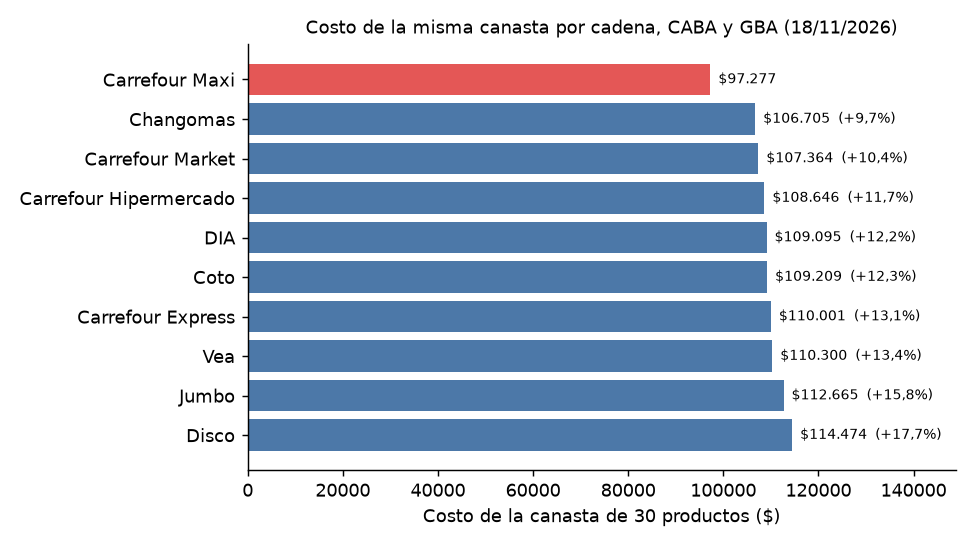
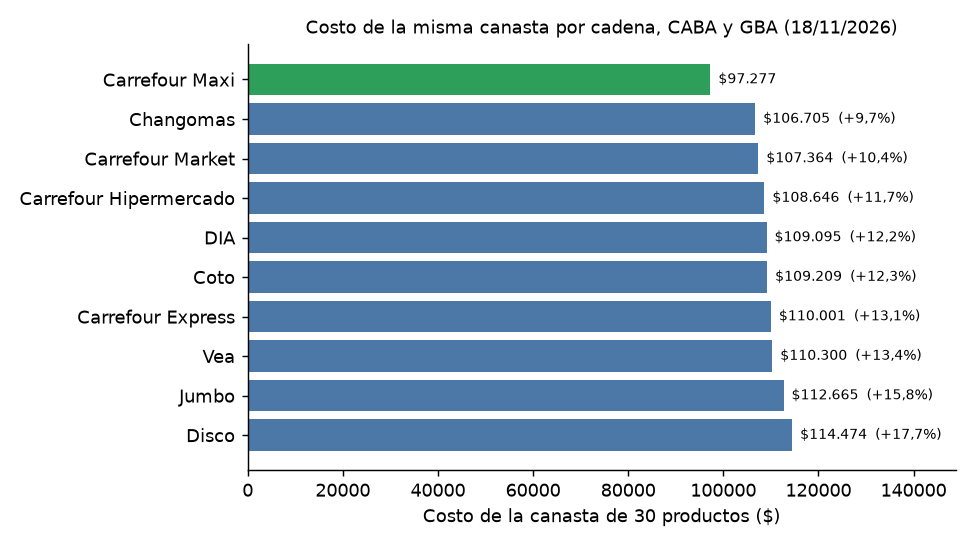
Marca en verde la cadena más barata en los gráficos de la canasta

Changed region(s): [[0.2462, 0.0934, 0.7385, 0.1868]]

diff --git a/app/app.py b/app/app.py
@@ -23,7 +23,7 @@ REPO = "magaliorellana01/monitor-precios-supermercados"
 URL_BASE = f"https://github.com/{REPO}/releases/download/datos-dashboard/dashboard.duckdb"
 RUTA_LOCAL = Path(os.environ.get("DASHBOARD_DB") or Path(__file__).resolve().parent.parent / "data" / "dashboard" / "dashboard.duckdb")
 
-COLOR, RESALTADO = "#4C78A8", "#E45756"
+COLOR, RESALTADO, VERDE = "#4C78A8", "#E45756", "#2E9E5B"  # VERDE: la cadena más barata
 ZONAS = {"TODAS": "CABA y GBA", "CABA": "CABA", "GBA": "GBA"}
 MIN_CADENAS_MARCA = 5
 MIN_FILAS_PROMO = 1000
@@ -113,7 +113,7 @@ with tab_resumen:
         t["etiqueta"] = [peso(c) + ("" if p == 1 else f"  ({pct(s, True)})") for c, p, s in
                          zip(t["costo"], t["posicion"], t["sobre_la_mas_barata_pct"])]
         fig = px.bar(t, x="costo", y="cadena", orientation="h", color="color", text="etiqueta",
-                     color_discrete_map={"Más barata": RESALTADO, "Otras": COLOR},
+                     color_discrete_map={"Más barata": VERDE, "Otras": COLOR},
                      labels={"costo": "Costo de la canasta ($)", "cadena": "", "color": ""})
         fig.update_traces(textposition="outside", cliponaxis=False)
         fig.update_layout(showlegend=False, height=420, margin=dict(l=0, r=40, t=10, b=0),

diff --git a/scripts/graficos_readme.py b/scripts/graficos_readme.py
@@ -20,7 +20,7 @@ import matplotlib.pyplot as plt  # noqa: E402
 RAIZ = Path(__file__).resolve().parent.parent
 BASE = RAIZ / "data" / "dashboard" / "dashboard.duckdb"
 SALIDA = RAIZ / "docs" / "img"
-COLOR, RESALTADO = "#4C78A8", "#E45756"
+COLOR, RESALTADO, VERDE = "#4C78A8", "#E45756", "#2E9E5B"  # VERDE: la cadena más barata
 
 plt.rcParams.update({"figure.dpi": 130, "axes.spines.top": False, "axes.spines.right": False, "font.size": 10})
 
@@ -34,7 +34,7 @@ def ranking_canasta(con) -> Path:
     """).df()
     fecha = t["fecha"].iloc[0]
     fig, ax = plt.subplots(figsize=(7.5, 4.2))
-    ax.barh(t["cadena"], t["costo"], color=[RESALTADO if p == 1 else COLOR for p in t["posicion"]])
+    ax.barh(t["cadena"], t["costo"], color=[VERDE if p == 1 else COLOR for p in t["posicion"]])
     for y, (costo, sobre) in enumerate(zip(t["costo"], t["sobre"])):
         ax.text(costo, y, f"  ${costo:,.0f}".replace(",", ".") + ("" if sobre == 0 else f"  (+{sobre:.1f}%)".replace(".", ",")),
                 va="center", fontsize=8)
